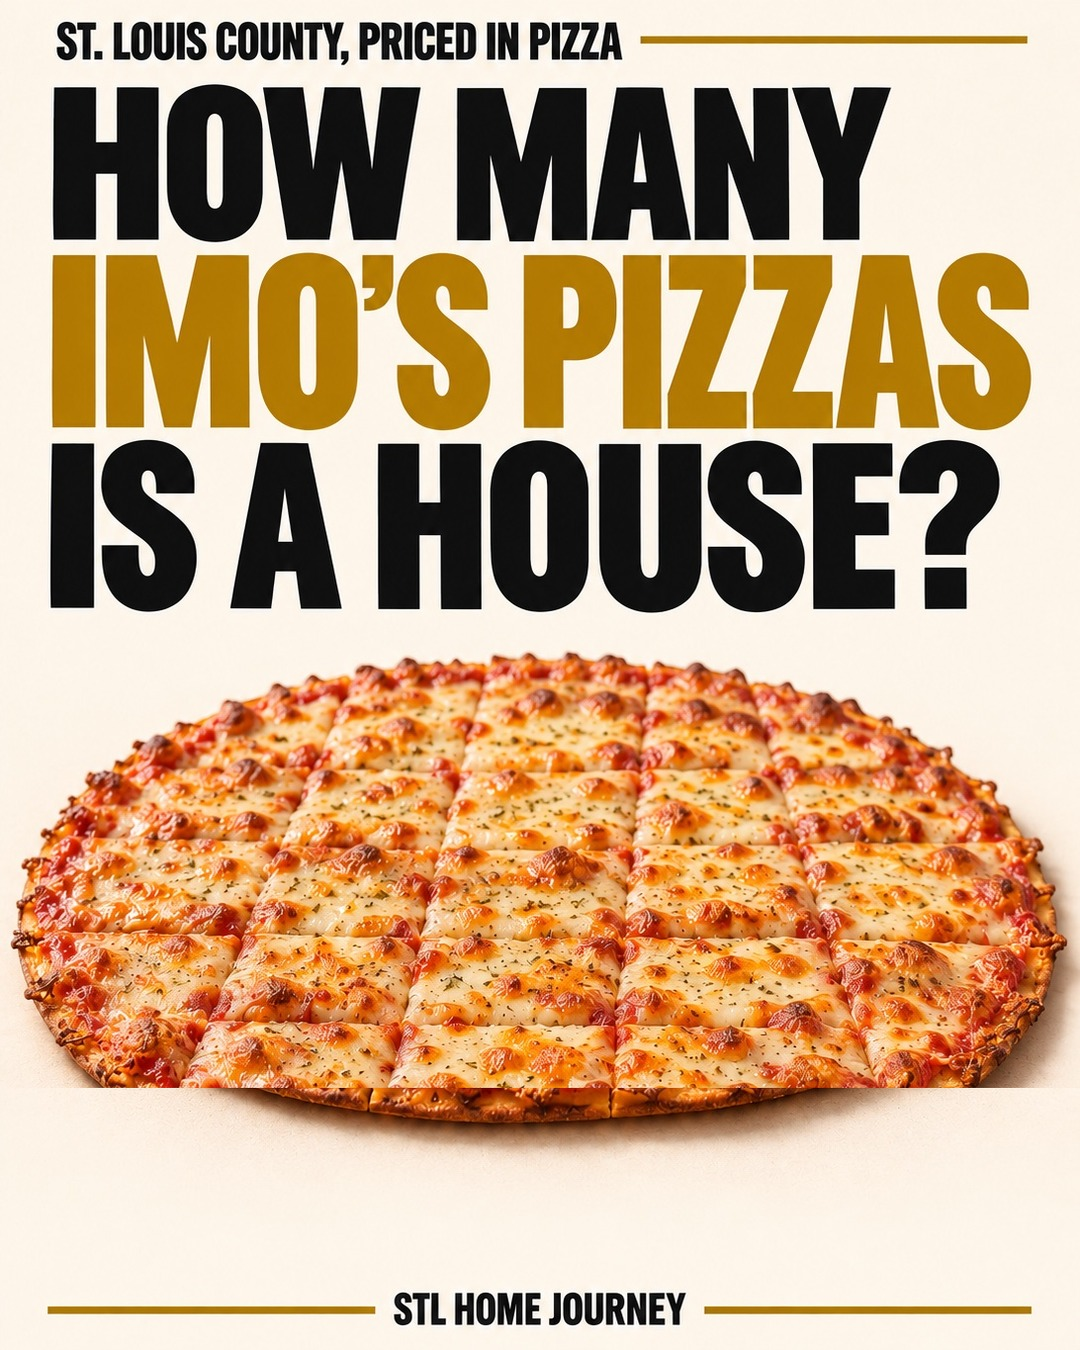
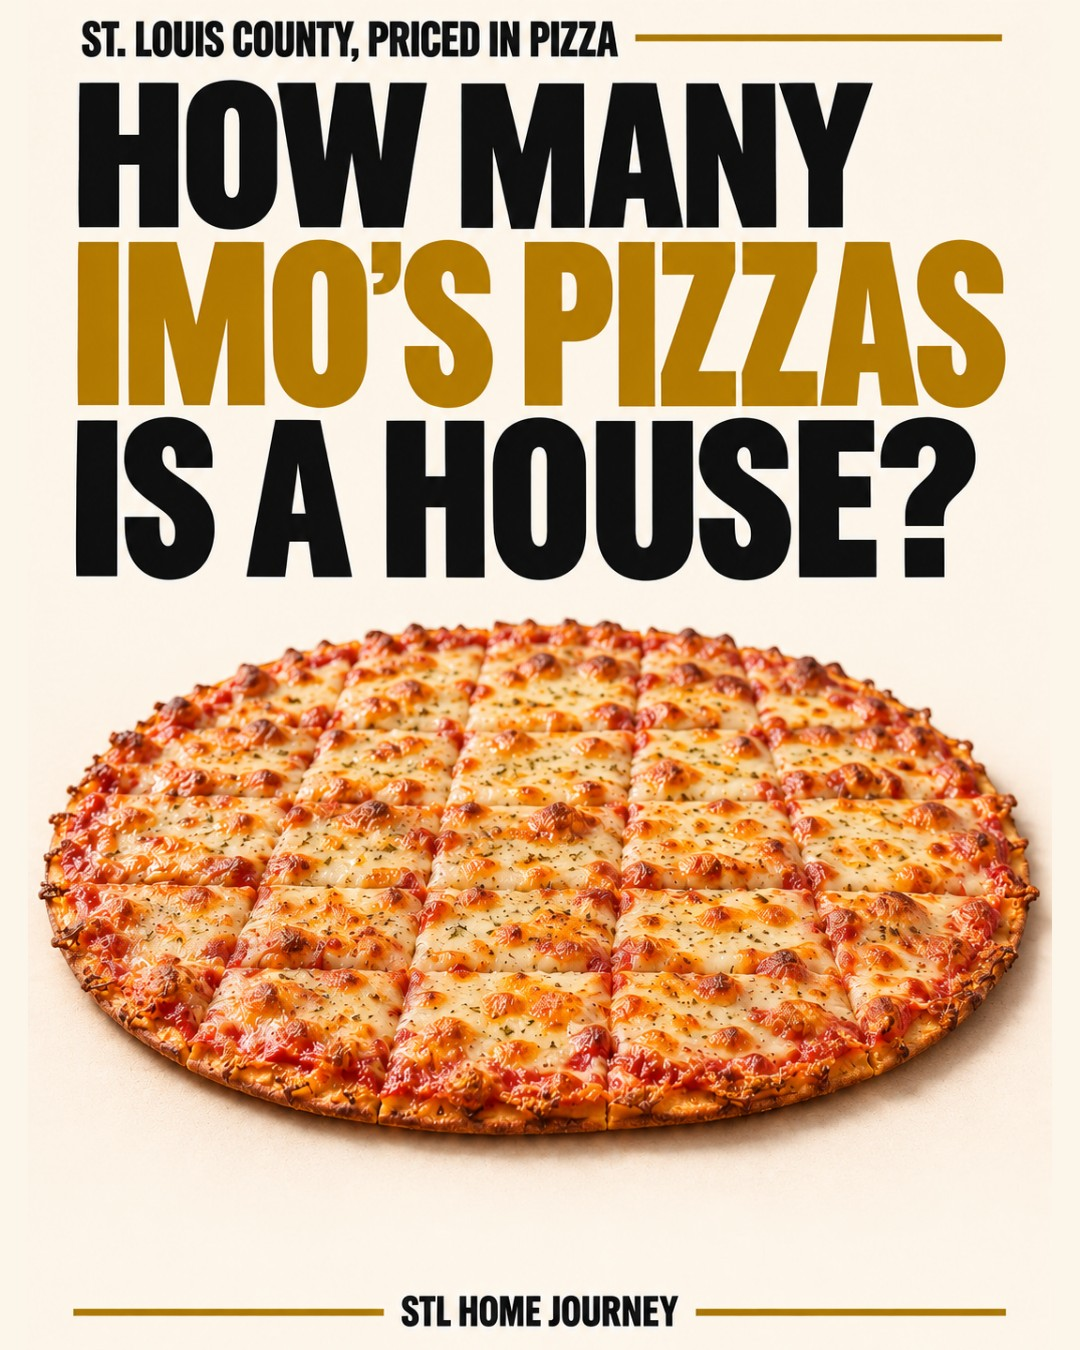
Pizza pack: new cover (square-cut Imo's), padded to the 4:5 slide size
Claude-Session: https://claude.ai/code/session_01DUfoKiMY8U3dAUB9JT6hLE

diff --git a/school-districts/st-louis-county.html b/school-districts/st-louis-county.html
@@ -513,7 +513,7 @@
 </section>
       <section class="tc" id="pizza-slides" aria-roledescription="carousel" aria-label="St. Louis County, priced in Imo&rsquo;s pizza: seven slides">
   <ul class="tc-track" tabindex="0">
-    <li class="tc-slide" aria-roledescription="slide" aria-label="1 of 7"><img src="/assets/pizza-pack/01-cover.jpg" alt="How many Imo&rsquo;s pizzas is a house? St.&nbsp;Louis County, priced in pizza. A large Imo&rsquo;s cheese pizza under the headline." width="1080" height="1350" loading="lazy" decoding="async"></li>
+    <li class="tc-slide" aria-roledescription="slide" aria-label="1 of 7"><img src="/assets/pizza-pack/01-cover.jpg" alt="How many Imo&rsquo;s pizzas is a house? St.&nbsp;Louis County, priced in pizza. A large Imo&rsquo;s cheese pizza, cut in squares, under the headline." width="1080" height="1350" loading="lazy" decoding="async"></li>
     <li class="tc-slide" aria-roledescription="slide" aria-label="2 of 7"><img src="/assets/pizza-pack/02-map.jpg" alt="One county. 22 prices. Median home prices translated into large Imo&rsquo;s cheese pizzas, from 5,351 to 83,612. Normandy 5,351; Jennings 5,886; Riverview Gardens 6,154; Ferguson-Florissant 9,431; Hazelwood 13,428; Pattonville 19,064; Ritenour 10,442; University City 29,659; Clayton 83,612; Ladue 68,796; Parkway 32,776; Rockwood 35,385; Valley Park 20,936; Webster Groves 28,428; Kirkwood 38,462; Brentwood 26,823; Maplewood-Richmond Heights 21,739; Affton 18,060; Bayless 17,043; Hancock Place 10,468; Lindbergh 26,756; Mehlville 23,411. A map shades each district by tier: under 10,000, 10,000 to 30,000, and over 30,000 pizzas." width="1080" height="1350" loading="lazy" decoding="async"></li>
     <li class="tc-slide" aria-roledescription="slide" aria-label="3 of 7"><img src="/assets/pizza-pack/03-cheapest.jpg" alt="The cheapest slices, under 10,000 pizzas: Normandy 5,351 pizzas, median home price $80,000; Jennings 5,886, $88,000; Riverview Gardens 6,154, $92,000; Ferguson-Florissant 9,431, $141,000." width="1080" height="1350" loading="lazy" decoding="async"></li>
     <li class="tc-slide" aria-roledescription="slide" aria-label="4 of 7"><img src="/assets/pizza-pack/04-middle.jpg" alt="The middle of the menu, 10,000 to 20,000 pizzas: Ritenour 10,442 pizzas, $156,103; Hancock Place 10,468, $156,500; Hazelwood 13,428, $200,750; Bayless 17,043, $254,799; Affton 18,060, $270,000; Pattonville 19,064, $285,000." width="1080" height="1350" loading="lazy" decoding="async"></li>
